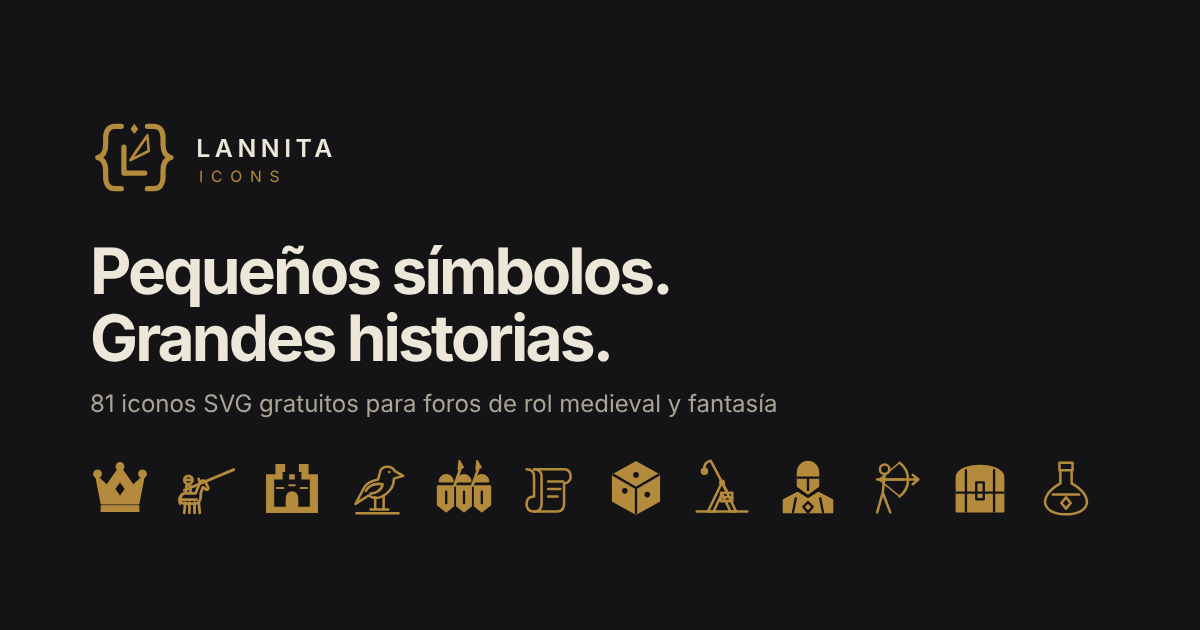
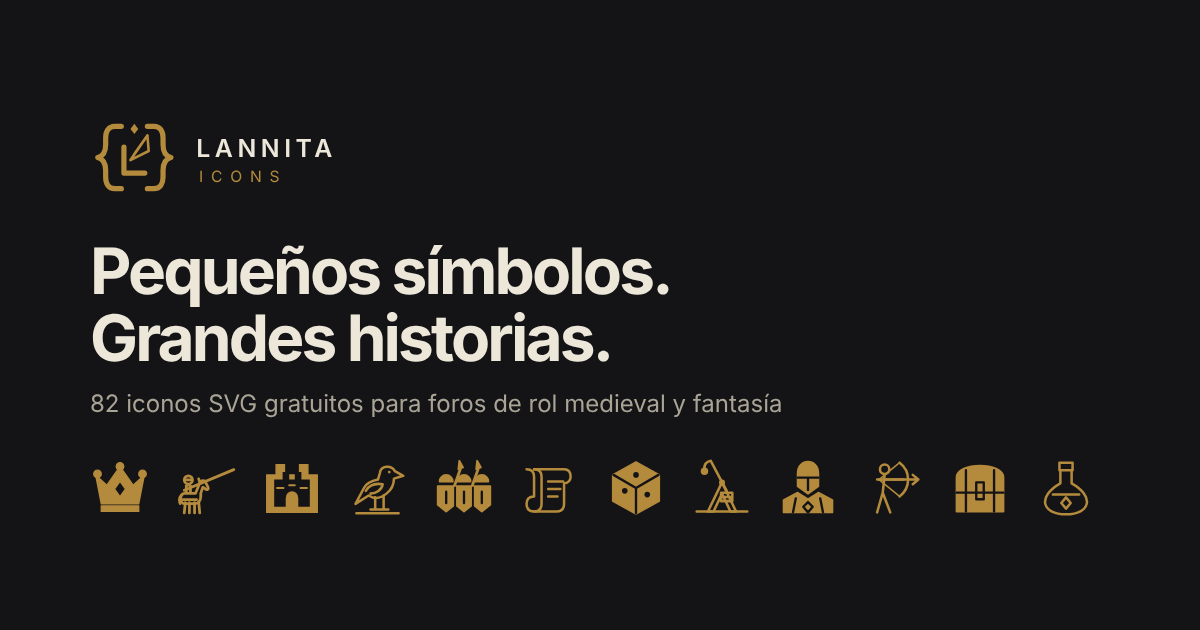
Añadir icono de liderazgo (leadership) a Atributos de personaje
Claude-Session: https://claude.ai/code/session_0167zFDEFm587ytXc5Y8Pb1f

Changed region(s): [[0.0925, 0.6032, 0.6475, 0.6635]]

diff --git a/index.html b/index.html
@@ -1,16 +1,16 @@
 <!doctype html>
 <html lang="es"><head><meta charset="utf-8"><meta name="viewport" content="width=device-width, initial-scale=1">
-<title>Lannita Icons · Colección gratuita</title><meta name="description" content="Iconos SVG para rol medieval y fantasía. 81 símbolos editables en estilos outline y heráldico, listos para Foroactivo."><meta name="theme-color" content="#141416">
-<meta property="og:type" content="website"><meta property="og:site_name" content="Lannita Icons"><meta property="og:title" content="Lannita Icons · Colección gratuita"><meta property="og:description" content="Iconos SVG para rol medieval y fantasía. 81 símbolos editables en estilos outline y heráldico, listos para Foroactivo."><meta property="og:image" content="https://kdavis13.github.io/lannita-icons/assets/brand/og-image.png"><meta property="og:image:width" content="1200"><meta property="og:image:height" content="630"><meta name="twitter:card" content="summary_large_image">
+<title>Lannita Icons · Colección gratuita</title><meta name="description" content="Iconos SVG para rol medieval y fantasía. 82 símbolos editables en estilos outline y heráldico, listos para Foroactivo."><meta name="theme-color" content="#141416">
+<meta property="og:type" content="website"><meta property="og:site_name" content="Lannita Icons"><meta property="og:title" content="Lannita Icons · Colección gratuita"><meta property="og:description" content="Iconos SVG para rol medieval y fantasía. 82 símbolos editables en estilos outline y heráldico, listos para Foroactivo."><meta property="og:image" content="https://kdavis13.github.io/lannita-icons/assets/brand/og-image.png"><meta property="og:image:width" content="1200"><meta property="og:image:height" content="630"><meta name="twitter:card" content="summary_large_image">
 <link rel="icon" type="image/svg+xml" href="./assets/brand/favicon.svg"><link rel="stylesheet" href="./css/gallery.css"><script src="./gallery.js" defer></script></head>
 <body><a class="skip" href="#galeria">Ir a la galería</a>
 <header class="site-header"><p class="eyebrow">LANNITA CODES / RECURSOS GRATUITOS</p><h1 class="brand"><img src="./assets/brand/lannita-logo.svg" alt="Lannita Icons" width="460" height="140"></h1>
 <div class="hero"><h2 class="hero-title">Pequeños símbolos.<br>Grandes historias.</h2><p>Iconos SVG para tus comunidades de rol medieval y fantasía. Editables, personalizables y listos para dar vida a tu foro.</p>
-<p class="hero-links"><a class="button" href="./guia.html">Cómo usarlos en tu foro</a><a href="./comparison.html">Ver tamaños</a></p><p class="credit-note">Gratis para cualquier foro, con <a href="./guia.html#mencion">mención obligatoria a Lannita Codes</a>.</p><ul class="collection-meta"><li>81 ICONOS</li><li>2 ESTILOS</li><li>7 CATEGORÍAS</li><li>GRATIS Y OPEN SOURCE</li></ul></div></header>
+<p class="hero-links"><a class="button" href="./guia.html">Cómo usarlos en tu foro</a><a href="./comparison.html">Ver tamaños</a></p><p class="credit-note">Gratis para cualquier foro, con <a href="./guia.html#mencion">mención obligatoria a Lannita Codes</a>.</p><ul class="collection-meta"><li>82 ICONOS</li><li>2 ESTILOS</li><li>7 CATEGORÍAS</li><li>GRATIS Y OPEN SOURCE</li></ul></div></header>
 <div class="toolbar"><div class="controls"><label class="search">Buscar iconos<input id="search" type="search" placeholder="Corona, justa, key…" autocomplete="off"></label>
 <label class="color">Color<input id="color" type="color" value="#b48a3c"></label></div>
-<div class="chips" role="group" aria-label="Filtrar por categoría"><button type="button" class="chip" data-category="" aria-pressed="true">Todas <span>81</span></button><button type="button" class="chip" data-category="Nobleza y política" aria-pressed="false">Nobleza y política <span>7</span></button><button type="button" class="chip" data-category="Guerra y combate" aria-pressed="false">Guerra y combate <span>25</span></button><button type="button" class="chip" data-category="Mensajería y narrativa" aria-pressed="false">Mensajería y narrativa <span>9</span></button><button type="button" class="chip" data-category="Economía y territorios" aria-pressed="false">Economía y territorios <span>9</span></button><button type="button" class="chip" data-category="Personajes y sistemas de rol" aria-pressed="false">Personajes y sistemas de rol <span>7</span></button><button type="button" class="chip" data-category="Religión y fe" aria-pressed="false">Religión y fe <span>12</span></button><button type="button" class="chip" data-category="Atributos de personaje" aria-pressed="false">Atributos de personaje <span>12</span></button></div>
-<p id="count" role="status">81 iconos · 162 variantes</p></div>
+<div class="chips" role="group" aria-label="Filtrar por categoría"><button type="button" class="chip" data-category="" aria-pressed="true">Todas <span>82</span></button><button type="button" class="chip" data-category="Nobleza y política" aria-pressed="false">Nobleza y política <span>7</span></button><button type="button" class="chip" data-category="Guerra y combate" aria-pressed="false">Guerra y combate <span>25</span></button><button type="button" class="chip" data-category="Mensajería y narrativa" aria-pressed="false">Mensajería y narrativa <span>9</span></button><button type="button" class="chip" data-category="Economía y territorios" aria-pressed="false">Economía y territorios <span>9</span></button><button type="button" class="chip" data-category="Personajes y sistemas de rol" aria-pressed="false">Personajes y sistemas de rol <span>7</span></button><button type="button" class="chip" data-category="Religión y fe" aria-pressed="false">Religión y fe <span>12</span></button><button type="button" class="chip" data-category="Atributos de personaje" aria-pressed="false">Atributos de personaje <span>13</span></button></div>
+<p id="count" role="status">82 iconos · 164 variantes</p></div>
 <main id="galeria"><section class="category" data-category="Nobleza y política"><h2>Nobleza y política <span>7</span></h2><div class="grid"><article id="crown" data-search="crown corona nobleza y política" data-category="Nobleza y política"><div class="card-head"><h3>Corona</h3><a class="name" href="#crown"><code>crown</code></a></div><div class="pair"><figure class="variant"><svg aria-hidden="true" focusable="false" xmlns="http://www.w3.org/2000/svg" width="64" height="64" viewBox="0 0 64 64" fill="none" stroke="currentColor" stroke-width="2.7" stroke-linecap="round" stroke-linejoin="round">
 <!-- Lannita Icons · Iconos de Lannita Codes (https://lannitacodes.tumblr.com/) · CC BY 4.0, mención obligatoria -->
 <path d="M8 19 18 29 32 13 46 29 56 19 51 48H13Z" /><path d="M15 54h34" /><circle cx="8" cy="18" r="3" /><circle cx="32" cy="12" r="3" /><circle cx="56" cy="18" r="3" />
@@ -425,7 +425,7 @@
 </svg><figcaption>Outline</figcaption><div class="actions"><button type="button" data-name="moon-cult" data-style="outline" aria-label="Copiar HTML de Culto lunar, outline">Copiar</button><button type="button" data-class="li li-moon-cult" aria-label="Copiar clase CSS de Culto lunar, outline">Clase</button><a href="./icons/outline/moon-cult.svg" download="lannita-moon-cult-outline.svg" aria-label="Descargar SVG de Culto lunar, outline">SVG</a></div></figure><figure class="variant"><svg aria-hidden="true" focusable="false" xmlns="http://www.w3.org/2000/svg" width="64" height="64" viewBox="0 0 64 64">
 <!-- Lannita Icons · Iconos de Lannita Codes (https://lannitacodes.tumblr.com/) · CC BY 4.0, mención obligatoria -->
 <defs><mask id="li-moon-cult-heraldic-cut" maskUnits="userSpaceOnUse" x="-64" y="-64" width="192" height="192" style="mask-type:luminance"><rect x="-64" y="-64" width="192" height="192" fill="white"/><g fill="none" stroke="black" stroke-linecap="round" stroke-linejoin="round"><path d="M14 32c0-6 2-11 6-15" stroke-width="2.5"/></g></mask></defs><g stroke="currentColor" stroke-linecap="round" stroke-linejoin="round"><path d="M36 6A26 26 0 1 0 36 58A30 30 0 0 1 36 6Z" fill="currentColor" stroke-width="2" mask="url(#li-moon-cult-heraldic-cut)"/><path d="M46.0 12.0L47.7 16.3L52.0 18.0L47.7 19.7L46.0 24.0L44.3 19.7L40.0 18.0L44.3 16.3Z M53.0 29.5L54.3 32.7L57.5 34.0L54.3 35.3L53.0 38.5L51.7 35.3L48.5 34.0L51.7 32.7Z M44.0 42.0L45.4 45.6L49.0 47.0L45.4 48.4L44.0 52.0L42.6 48.4L39.0 47.0L42.6 45.6Z" fill="currentColor" stroke-width="1.6"/></g>
-</svg><figcaption>Heráldico</figcaption><div class="actions"><button type="button" data-name="moon-cult" data-style="heraldic" aria-label="Copiar HTML de Culto lunar, heráldico">Copiar</button><button type="button" data-class="li li-heraldic li-moon-cult" aria-label="Copiar clase CSS de Culto lunar, heráldico">Clase</button><a href="./icons/heraldic/moon-cult.svg" download="lannita-moon-cult-heraldic.svg" aria-label="Descargar SVG de Culto lunar, heráldico">SVG</a></div></figure></div></article></div></section><section class="category" data-category="Atributos de personaje"><h2>Atributos de personaje <span>12</span></h2><div class="grid"><article id="strength" data-search="strength fuerza atributos de personaje" data-category="Atributos de personaje"><div class="card-head"><h3>Fuerza</h3><span class="badge">Nuevo</span><a class="name" href="#strength"><code>strength</code></a></div><div class="pair"><figure class="variant"><svg aria-hidden="true" focusable="false" xmlns="http://www.w3.org/2000/svg" width="64" height="64" viewBox="0 0 64 64">
+</svg><figcaption>Heráldico</figcaption><div class="actions"><button type="button" data-name="moon-cult" data-style="heraldic" aria-label="Copiar HTML de Culto lunar, heráldico">Copiar</button><button type="button" data-class="li li-heraldic li-moon-cult" aria-label="Copiar clase CSS de Culto lunar, heráldico">Clase</button><a href="./icons/heraldic/moon-cult.svg" download="lannita-moon-cult-heraldic.svg" aria-label="Descargar SVG de Culto lunar, heráldico">SVG</a></div></figure></div></article></div></section><section class="category" data-category="Atributos de personaje"><h2>Atributos de personaje <span>13</span></h2><div class="grid"><article id="strength" data-search="strength fuerza atributos de personaje" data-category="Atributos de personaje"><div class="card-head"><h3>Fuerza</h3><span class="badge">Nuevo</span><a class="name" href="#strength"><code>strength</code></a></div><div class="pair"><figure class="variant"><svg aria-hidden="true" focusable="false" xmlns="http://www.w3.org/2000/svg" width="64" height="64" viewBox="0 0 64 64">
 <!-- Lannita Icons · Iconos de Lannita Codes (https://lannitacodes.tumblr.com/) · CC BY 4.0, mención obligatoria -->
 <g fill="none" stroke="currentColor" stroke-width="2.7" stroke-linecap="round" stroke-linejoin="round"><path d="M13 21a4 4 0 0 1 4-4h30a4 4 0 0 1 4 4v19c0 8-6 13-13 14H26c-7-1-13-6-13-14Z M22 54h20v7H22Z M22.5 17v10M32 17v10M41.5 17v10 M13 33h18a4.5 4.5 0 0 1 0 9H19 M22 57h20"/><path d="M6 12l4 3M58 12l-4 3M32 4v5" stroke-width="1.6"/></g>
 </svg><figcaption>Outline</figcaption><div class="actions"><button type="button" data-name="strength" data-style="outline" aria-label="Copiar HTML de Fuerza, outline">Copiar</button><button type="button" data-class="li li-strength" aria-label="Copiar clase CSS de Fuerza, outline">Clase</button><a href="./icons/outline/strength.svg" download="lannita-strength-outline.svg" aria-label="Descargar SVG de Fuerza, outline">SVG</a></div></figure><figure class="variant"><svg aria-hidden="true" focusable="false" xmlns="http://www.w3.org/2000/svg" width="64" height="64" viewBox="0 0 64 64">
@@ -455,7 +455,13 @@
 </svg><figcaption>Outline</figcaption><div class="actions"><button type="button" data-name="charisma" data-style="outline" aria-label="Copiar HTML de Carisma, outline">Copiar</button><button type="button" data-class="li li-charisma" aria-label="Copiar clase CSS de Carisma, outline">Clase</button><a href="./icons/outline/charisma.svg" download="lannita-charisma-outline.svg" aria-label="Descargar SVG de Carisma, outline">SVG</a></div></figure><figure class="variant"><svg aria-hidden="true" focusable="false" xmlns="http://www.w3.org/2000/svg" width="64" height="64" viewBox="0 0 64 64">
 <!-- Lannita Icons · Iconos de Lannita Codes (https://lannitacodes.tumblr.com/) · CC BY 4.0, mención obligatoria -->
 <defs><mask id="li-charisma-heraldic-cut" maskUnits="userSpaceOnUse" x="-64" y="-64" width="192" height="192" style="mask-type:luminance"><rect x="-64" y="-64" width="192" height="192" fill="white"/><g fill="none" stroke="black" stroke-linecap="round" stroke-linejoin="round"><path d="M27.5 40a4.5 4.5 0 1 0 9.0 0a4.5 4.5 0 1 0 -9.0 0 M26 51h12" stroke-width="2.5"/></g></mask></defs><g stroke="currentColor" stroke-linecap="round" stroke-linejoin="round"><g transform="matrix(.866 -.5 .5 .866 -13 19)"><path d="M32 24c10 0 17 9 17 19 0 9-7 16-17 16s-17-7-17-16c0-10 7-19 17-19Z M29 9h6v17h-6Z M29 9l-3-6h7l2 6Z" fill="currentColor" stroke-width="2" mask="url(#li-charisma-heraldic-cut)"/><path d="M30.5 9v42M33.5 9v42" fill="none" stroke-width="1.8"/></g></g>
-</svg><figcaption>Heráldico</figcaption><div class="actions"><button type="button" data-name="charisma" data-style="heraldic" aria-label="Copiar HTML de Carisma, heráldico">Copiar</button><button type="button" data-class="li li-heraldic li-charisma" aria-label="Copiar clase CSS de Carisma, heráldico">Clase</button><a href="./icons/heraldic/charisma.svg" download="lannita-charisma-heraldic.svg" aria-label="Descargar SVG de Carisma, heráldico">SVG</a></div></figure></div></article><article id="endurance" data-search="endurance resistencia atributos de personaje" data-category="Atributos de personaje"><div class="card-head"><h3>Resistencia</h3><span class="badge">Nuevo</span><a class="name" href="#endurance"><code>endurance</code></a></div><div class="pair"><figure class="variant"><svg aria-hidden="true" focusable="false" xmlns="http://www.w3.org/2000/svg" width="64" height="64" viewBox="0 0 64 64">
+</svg><figcaption>Heráldico</figcaption><div class="actions"><button type="button" data-name="charisma" data-style="heraldic" aria-label="Copiar HTML de Carisma, heráldico">Copiar</button><button type="button" data-class="li li-heraldic li-charisma" aria-label="Copiar clase CSS de Carisma, heráldico">Clase</button><a href="./icons/heraldic/charisma.svg" download="lannita-charisma-heraldic.svg" aria-label="Descargar SVG de Carisma, heráldico">SVG</a></div></figure></div></article><article id="leadership" data-search="leadership liderazgo atributos de personaje" data-category="Atributos de personaje"><div class="card-head"><h3>Liderazgo</h3><span class="badge">Nuevo</span><a class="name" href="#leadership"><code>leadership</code></a></div><div class="pair"><figure class="variant"><svg aria-hidden="true" focusable="false" xmlns="http://www.w3.org/2000/svg" width="64" height="64" viewBox="0 0 64 64">
+<!-- Lannita Icons · Iconos de Lannita Codes (https://lannitacodes.tumblr.com/) · CC BY 4.0, mención obligatoria -->
+<g fill="none" stroke="currentColor" stroke-width="2.7" stroke-linecap="round" stroke-linejoin="round"><path d="M25 31a7 7 0 1 0 14 0a7 7 0 1 0 -14 0 M17 59c0-10 6-17 15-17s15 7 15 17Z M7.5 22a4.5 4.5 0 1 0 9.0 0a4.5 4.5 0 1 0 -9.0 0 M3 38c0-6 4-10 9-10s9 4 9 10Z M47.5 22a4.5 4.5 0 1 0 9.0 0a4.5 4.5 0 1 0 -9.0 0 M43 38c0-6 4-10 9-10s9 4 9 10Z M25 45l7 6 7-6"/><path d="M24.5 22l1.5-8 4 4 2-6 2 6 4-4 1.5 8Z" fill="currentColor" stroke-width="1.4"/></g>
+</svg><figcaption>Outline</figcaption><div class="actions"><button type="button" data-name="leadership" data-style="outline" aria-label="Copiar HTML de Liderazgo, outline">Copiar</button><button type="button" data-class="li li-leadership" aria-label="Copiar clase CSS de Liderazgo, outline">Clase</button><a href="./icons/outline/leadership.svg" download="lannita-leadership-outline.svg" aria-label="Descargar SVG de Liderazgo, outline">SVG</a></div></figure><figure class="variant"><svg aria-hidden="true" focusable="false" xmlns="http://www.w3.org/2000/svg" width="64" height="64" viewBox="0 0 64 64">
+<!-- Lannita Icons · Iconos de Lannita Codes (https://lannitacodes.tumblr.com/) · CC BY 4.0, mención obligatoria -->
+<defs><mask id="li-leadership-heraldic-cut" maskUnits="userSpaceOnUse" x="-64" y="-64" width="192" height="192" style="mask-type:luminance"><rect x="-64" y="-64" width="192" height="192" fill="white"/><g fill="none" stroke="black" stroke-linecap="round" stroke-linejoin="round"><path d="M25 45l7 6 7-6" stroke-width="2.5"/></g></mask></defs><g stroke="currentColor" stroke-linecap="round" stroke-linejoin="round"><path d="M25 31a7 7 0 1 0 14 0a7 7 0 1 0 -14 0 M17 59c0-10 6-17 15-17s15 7 15 17Z M7.5 22a4.5 4.5 0 1 0 9.0 0a4.5 4.5 0 1 0 -9.0 0 M3 38c0-6 4-10 9-10s9 4 9 10Z M47.5 22a4.5 4.5 0 1 0 9.0 0a4.5 4.5 0 1 0 -9.0 0 M43 38c0-6 4-10 9-10s9 4 9 10Z" fill="currentColor" stroke-width="2" mask="url(#li-leadership-heraldic-cut)"/><path d="M24.5 22l1.5-8 4 4 2-6 2 6 4-4 1.5 8Z" fill="currentColor" stroke-width="1.6"/></g>
+</svg><figcaption>Heráldico</figcaption><div class="actions"><button type="button" data-name="leadership" data-style="heraldic" aria-label="Copiar HTML de Liderazgo, heráldico">Copiar</button><button type="button" data-class="li li-heraldic li-leadership" aria-label="Copiar clase CSS de Liderazgo, heráldico">Clase</button><a href="./icons/heraldic/leadership.svg" download="lannita-leadership-heraldic.svg" aria-label="Descargar SVG de Liderazgo, heráldico">SVG</a></div></figure></div></article><article id="endurance" data-search="endurance resistencia atributos de personaje" data-category="Atributos de personaje"><div class="card-head"><h3>Resistencia</h3><span class="badge">Nuevo</span><a class="name" href="#endurance"><code>endurance</code></a></div><div class="pair"><figure class="variant"><svg aria-hidden="true" focusable="false" xmlns="http://www.w3.org/2000/svg" width="64" height="64" viewBox="0 0 64 64">
 <!-- Lannita Icons · Iconos de Lannita Codes (https://lannitacodes.tumblr.com/) · CC BY 4.0, mención obligatoria -->
 <g fill="none" stroke="currentColor" stroke-width="2.7" stroke-linecap="round" stroke-linejoin="round"><path d="M32 5c8 5 15 7 22 8v18c0 13-9 21-22 27-13-6-22-14-22-27V13c7-1 14-3 22-8Z M32 45c-9-6-13-11-13-16 0-4 3-7 6.5-7 3 0 5 2 6.5 4.5 1.5-2.5 3.5-4.5 6.5-4.5 3.5 0 6.5 3 6.5 7 0 5-4 10-13 16Z"/></g>
 </svg><figcaption>Outline</figcaption><div class="actions"><button type="button" data-name="endurance" data-style="outline" aria-label="Copiar HTML de Resistencia, outline">Copiar</button><button type="button" data-class="li li-endurance" aria-label="Copiar clase CSS de Resistencia, outline">Clase</button><a href="./icons/outline/endurance.svg" download="lannita-endurance-outline.svg" aria-label="Descargar SVG de Resistencia, outline">SVG</a></div></figure><figure class="variant"><svg aria-hidden="true" focusable="false" xmlns="http://www.w3.org/2000/svg" width="64" height="64" viewBox="0 0 64 64">

diff --git a/comparison.html b/comparison.html
@@ -1,10 +1,10 @@
 <!doctype html>
 <html lang="es"><head><meta charset="utf-8"><meta name="viewport" content="width=device-width, initial-scale=1">
-<title>Lannita Icons · Comparativa de tamaños</title><meta name="description" content="Los 162 SVG de Lannita Icons a 16, 24, 32 y 64 píxeles."><meta name="theme-color" content="#141416">
-<meta property="og:type" content="website"><meta property="og:site_name" content="Lannita Icons"><meta property="og:title" content="Lannita Icons · Comparativa de tamaños"><meta property="og:description" content="Los 162 SVG de Lannita Icons a 16, 24, 32 y 64 píxeles."><meta property="og:image" content="https://kdavis13.github.io/lannita-icons/assets/brand/og-image.png"><meta property="og:image:width" content="1200"><meta property="og:image:height" content="630"><meta name="twitter:card" content="summary_large_image">
+<title>Lannita Icons · Comparativa de tamaños</title><meta name="description" content="Los 164 SVG de Lannita Icons a 16, 24, 32 y 64 píxeles."><meta name="theme-color" content="#141416">
+<meta property="og:type" content="website"><meta property="og:site_name" content="Lannita Icons"><meta property="og:title" content="Lannita Icons · Comparativa de tamaños"><meta property="og:description" content="Los 164 SVG de Lannita Icons a 16, 24, 32 y 64 píxeles."><meta property="og:image" content="https://kdavis13.github.io/lannita-icons/assets/brand/og-image.png"><meta property="og:image:width" content="1200"><meta property="og:image:height" content="630"><meta name="twitter:card" content="summary_large_image">
 <link rel="icon" type="image/svg+xml" href="./assets/brand/favicon.svg"><link rel="stylesheet" href="./css/gallery.css"></head>
 <body class="compare"><header class="page-header"><a class="brand-link" href="./index.html"><img src="./assets/brand/lannita-logo.svg" alt="Lannita Icons" width="460" height="140"></a><a class="back" href="./index.html">← Volver a la galería</a></header>
-<div class="intro"><h1>81 símbolos, dos estilos.</h1><p>Comparativa de los 162 SVG a 16, 24, 32 y 64 píxeles. Los detalles ornamentales se aprecian mejor a partir de 32 px.</p></div>
+<div class="intro"><h1>82 símbolos, dos estilos.</h1><p>Comparativa de los 164 SVG a 16, 24, 32 y 64 píxeles. Los detalles ornamentales se aprecian mejor a partir de 32 px.</p></div>
 <main><section class="category"><h2>Nobleza y política <span>7</span></h2><div class="compare-grid"><article id="crown"><div class="card-head"><h3>Corona</h3><code>crown</code></div><div class="samples" aria-label="Outline"><span class="style-name">Outline</span><div class="sample"><svg xmlns="http://www.w3.org/2000/svg" width="16" height="16" aria-hidden="true" viewBox="0 0 64 64" fill="none" stroke="currentColor" stroke-width="2.7" stroke-linecap="round" stroke-linejoin="round">
 <!-- Lannita Icons · Iconos de Lannita Codes (https://lannitacodes.tumblr.com/) · CC BY 4.0, mención obligatoria -->
 <path d="M8 19 18 29 32 13 46 29 56 19 51 48H13Z" /><path d="M15 54h34" /><circle cx="8" cy="18" r="3" /><circle cx="32" cy="12" r="3" /><circle cx="56" cy="18" r="3" />
@@ -1661,7 +1661,7 @@
 </svg><small>32</small></div><div class="sample"><svg xmlns="http://www.w3.org/2000/svg" width="64" height="64" aria-hidden="true" viewBox="0 0 64 64">
 <!-- Lannita Icons · Iconos de Lannita Codes (https://lannitacodes.tumblr.com/) · CC BY 4.0, mención obligatoria -->
 <defs><mask id="compare-64-li-moon-cult-heraldic-cut" maskUnits="userSpaceOnUse" x="-64" y="-64" width="192" height="192" style="mask-type:luminance"><rect x="-64" y="-64" width="192" height="192" fill="white"/><g fill="none" stroke="black" stroke-linecap="round" stroke-linejoin="round"><path d="M14 32c0-6 2-11 6-15" stroke-width="2.5"/></g></mask></defs><g stroke="currentColor" stroke-linecap="round" stroke-linejoin="round"><path d="M36 6A26 26 0 1 0 36 58A30 30 0 0 1 36 6Z" fill="currentColor" stroke-width="2" mask="url(#compare-64-li-moon-cult-heraldic-cut)"/><path d="M46.0 12.0L47.7 16.3L52.0 18.0L47.7 19.7L46.0 24.0L44.3 19.7L40.0 18.0L44.3 16.3Z M53.0 29.5L54.3 32.7L57.5 34.0L54.3 35.3L53.0 38.5L51.7 35.3L48.5 34.0L51.7 32.7Z M44.0 42.0L45.4 45.6L49.0 47.0L45.4 48.4L44.0 52.0L42.6 48.4L39.0 47.0L42.6 45.6Z" fill="currentColor" stroke-width="1.6"/></g>
-</svg><small>64</small></div></div></article></div></section><section class="category"><h2>Atributos de personaje <span>12</span></h2><div class="compare-grid"><article id="strength"><div class="card-head"><h3>Fuerza</h3><code>strength</code></div><div class="samples" aria-label="Outline"><span class="style-name">Outline</span><div class="sample"><svg xmlns="http://www.w3.org/2000/svg" width="16" height="16" aria-hidden="true" viewBox="0 0 64 64">
+</svg><small>64</small></div></div></article></div></section><section class="category"><h2>Atributos de personaje <span>13</span></h2><div class="compare-grid"><article id="strength"><div class="card-head"><h3>Fuerza</h3><code>strength</code></div><div class="samples" aria-label="Outline"><span class="style-name">Outline</span><div class="sample"><svg xmlns="http://www.w3.org/2000/svg" width="16" height="16" aria-hidden="true" viewBox="0 0 64 64">
 <!-- Lannita Icons · Iconos de Lannita Codes (https://lannitacodes.tumblr.com/) · CC BY 4.0, mención obligatoria -->
 <g fill="none" stroke="currentColor" stroke-width="2.7" stroke-linecap="round" stroke-linejoin="round"><path d="M13 21a4 4 0 0 1 4-4h30a4 4 0 0 1 4 4v19c0 8-6 13-13 14H26c-7-1-13-6-13-14Z M22 54h20v7H22Z M22.5 17v10M32 17v10M41.5 17v10 M13 33h18a4.5 4.5 0 0 1 0 9H19 M22 57h20"/><path d="M6 12l4 3M58 12l-4 3M32 4v5" stroke-width="1.6"/></g>
 </svg><small>16</small></div><div class="sample"><svg xmlns="http://www.w3.org/2000/svg" width="24" height="24" aria-hidden="true" viewBox="0 0 64 64">
@@ -1781,6 +1781,30 @@
 </svg><small>32</small></div><div class="sample"><svg xmlns="http://www.w3.org/2000/svg" width="64" height="64" aria-hidden="true" viewBox="0 0 64 64">
 <!-- Lannita Icons · Iconos de Lannita Codes (https://lannitacodes.tumblr.com/) · CC BY 4.0, mención obligatoria -->
 <defs><mask id="compare-64-li-charisma-heraldic-cut" maskUnits="userSpaceOnUse" x="-64" y="-64" width="192" height="192" style="mask-type:luminance"><rect x="-64" y="-64" width="192" height="192" fill="white"/><g fill="none" stroke="black" stroke-linecap="round" stroke-linejoin="round"><path d="M27.5 40a4.5 4.5 0 1 0 9.0 0a4.5 4.5 0 1 0 -9.0 0 M26 51h12" stroke-width="2.5"/></g></mask></defs><g stroke="currentColor" stroke-linecap="round" stroke-linejoin="round"><g transform="matrix(.866 -.5 .5 .866 -13 19)"><path d="M32 24c10 0 17 9 17 19 0 9-7 16-17 16s-17-7-17-16c0-10 7-19 17-19Z M29 9h6v17h-6Z M29 9l-3-6h7l2 6Z" fill="currentColor" stroke-width="2" mask="url(#compare-64-li-charisma-heraldic-cut)"/><path d="M30.5 9v42M33.5 9v42" fill="none" stroke-width="1.8"/></g></g>
+</svg><small>64</small></div></div></article><article id="leadership"><div class="card-head"><h3>Liderazgo</h3><code>leadership</code></div><div class="samples" aria-label="Outline"><span class="style-name">Outline</span><div class="sample"><svg xmlns="http://www.w3.org/2000/svg" width="16" height="16" aria-hidden="true" viewBox="0 0 64 64">
+<!-- Lannita Icons · Iconos de Lannita Codes (https://lannitacodes.tumblr.com/) · CC BY 4.0, mención obligatoria -->
+<g fill="none" stroke="currentColor" stroke-width="2.7" stroke-linecap="round" stroke-linejoin="round"><path d="M25 31a7 7 0 1 0 14 0a7 7 0 1 0 -14 0 M17 59c0-10 6-17 15-17s15 7 15 17Z M7.5 22a4.5 4.5 0 1 0 9.0 0a4.5 4.5 0 1 0 -9.0 0 M3 38c0-6 4-10 9-10s9 4 9 10Z M47.5 22a4.5 4.5 0 1 0 9.0 0a4.5 4.5 0 1 0 -9.0 0 M43 38c0-6 4-10 9-10s9 4 9 10Z M25 45l7 6 7-6"/><path d="M24.5 22l1.5-8 4 4 2-6 2 6 4-4 1.5 8Z" fill="currentColor" stroke-width="1.4"/></g>
+</svg><small>16</small></div><div class="sample"><svg xmlns="http://www.w3.org/2000/svg" width="24" height="24" aria-hidden="true" viewBox="0 0 64 64">
+<!-- Lannita Icons · Iconos de Lannita Codes (https://lannitacodes.tumblr.com/) · CC BY 4.0, mención obligatoria -->
+<g fill="none" stroke="currentColor" stroke-width="2.7" stroke-linecap="round" stroke-linejoin="round"><path d="M25 31a7 7 0 1 0 14 0a7 7 0 1 0 -14 0 M17 59c0-10 6-17 15-17s15 7 15 17Z M7.5 22a4.5 4.5 0 1 0 9.0 0a4.5 4.5 0 1 0 -9.0 0 M3 38c0-6 4-10 9-10s9 4 9 10Z M47.5 22a4.5 4.5 0 1 0 9.0 0a4.5 4.5 0 1 0 -9.0 0 M43 38c0-6 4-10 9-10s9 4 9 10Z M25 45l7 6 7-6"/><path d="M24.5 22l1.5-8 4 4 2-6 2 6 4-4 1.5 8Z" fill="currentColor" stroke-width="1.4"/></g>
+</svg><small>24</small></div><div class="sample"><svg xmlns="http://www.w3.org/2000/svg" width="32" height="32" aria-hidden="true" viewBox="0 0 64 64">
+<!-- Lannita Icons · Iconos de Lannita Codes (https://lannitacodes.tumblr.com/) · CC BY 4.0, mención obligatoria -->
+<g fill="none" stroke="currentColor" stroke-width="2.7" stroke-linecap="round" stroke-linejoin="round"><path d="M25 31a7 7 0 1 0 14 0a7 7 0 1 0 -14 0 M17 59c0-10 6-17 15-17s15 7 15 17Z M7.5 22a4.5 4.5 0 1 0 9.0 0a4.5 4.5 0 1 0 -9.0 0 M3 38c0-6 4-10 9-10s9 4 9 10Z M47.5 22a4.5 4.5 0 1 0 9.0 0a4.5 4.5 0 1 0 -9.0 0 M43 38c0-6 4-10 9-10s9 4 9 10Z M25 45l7 6 7-6"/><path d="M24.5 22l1.5-8 4 4 2-6 2 6 4-4 1.5 8Z" fill="currentColor" stroke-width="1.4"/></g>
+</svg><small>32</small></div><div class="sample"><svg xmlns="http://www.w3.org/2000/svg" width="64" height="64" aria-hidden="true" viewBox="0 0 64 64">
+<!-- Lannita Icons · Iconos de Lannita Codes (https://lannitacodes.tumblr.com/) · CC BY 4.0, mención obligatoria -->
+<g fill="none" stroke="currentColor" stroke-width="2.7" stroke-linecap="round" stroke-linejoin="round"><path d="M25 31a7 7 0 1 0 14 0a7 7 0 1 0 -14 0 M17 59c0-10 6-17 15-17s15 7 15 17Z M7.5 22a4.5 4.5 0 1 0 9.0 0a4.5 4.5 0 1 0 -9.0 0 M3 38c0-6 4-10 9-10s9 4 9 10Z M47.5 22a4.5 4.5 0 1 0 9.0 0a4.5 4.5 0 1 0 -9.0 0 M43 38c0-6 4-10 9-10s9 4 9 10Z M25 45l7 6 7-6"/><path d="M24.5 22l1.5-8 4 4 2-6 2 6 4-4 1.5 8Z" fill="currentColor" stroke-width="1.4"/></g>
+</svg><small>64</small></div></div><div class="samples" aria-label="Heráldico"><span class="style-name">Heráldico</span><div class="sample"><svg xmlns="http://www.w3.org/2000/svg" width="16" height="16" aria-hidden="true" viewBox="0 0 64 64">
+<!-- Lannita Icons · Iconos de Lannita Codes (https://lannitacodes.tumblr.com/) · CC BY 4.0, mención obligatoria -->
+<defs><mask id="compare-16-li-leadership-heraldic-cut" maskUnits="userSpaceOnUse" x="-64" y="-64" width="192" height="192" style="mask-type:luminance"><rect x="-64" y="-64" width="192" height="192" fill="white"/><g fill="none" stroke="black" stroke-linecap="round" stroke-linejoin="round"><path d="M25 45l7 6 7-6" stroke-width="2.5"/></g></mask></defs><g stroke="currentColor" stroke-linecap="round" stroke-linejoin="round"><path d="M25 31a7 7 0 1 0 14 0a7 7 0 1 0 -14 0 M17 59c0-10 6-17 15-17s15 7 15 17Z M7.5 22a4.5 4.5 0 1 0 9.0 0a4.5 4.5 0 1 0 -9.0 0 M3 38c0-6 4-10 9-10s9 4 9 10Z M47.5 22a4.5 4.5 0 1 0 9.0 0a4.5 4.5 0 1 0 -9.0 0 M43 38c0-6 4-10 9-10s9 4 9 10Z" fill="currentColor" stroke-width="2" mask="url(#compare-16-li-leadership-heraldic-cut)"/><path d="M24.5 22l1.5-8 4 4 2-6 2 6 4-4 1.5 8Z" fill="currentColor" stroke-width="1.6"/></g>
+</svg><small>16</small></div><div class="sample"><svg xmlns="http://www.w3.org/2000/svg" width="24" height="24" aria-hidden="true" viewBox="0 0 64 64">
+<!-- Lannita Icons · Iconos de Lannita Codes (https://lannitacodes.tumblr.com/) · CC BY 4.0, mención obligatoria -->
+<defs><mask id="compare-24-li-leadership-heraldic-cut" maskUnits="userSpaceOnUse" x="-64" y="-64" width="192" height="192" style="mask-type:luminance"><rect x="-64" y="-64" width="192" height="192" fill="white"/><g fill="none" stroke="black" stroke-linecap="round" stroke-linejoin="round"><path d="M25 45l7 6 7-6" stroke-width="2.5"/></g></mask></defs><g stroke="currentColor" stroke-linecap="round" stroke-linejoin="round"><path d="M25 31a7 7 0 1 0 14 0a7 7 0 1 0 -14 0 M17 59c0-10 6-17 15-17s15 7 15 17Z M7.5 22a4.5 4.5 0 1 0 9.0 0a4.5 4.5 0 1 0 -9.0 0 M3 38c0-6 4-10 9-10s9 4 9 10Z M47.5 22a4.5 4.5 0 1 0 9.0 0a4.5 4.5 0 1 0 -9.0 0 M43 38c0-6 4-10 9-10s9 4 9 10Z" fill="currentColor" stroke-width="2" mask="url(#compare-24-li-leadership-heraldic-cut)"/><path d="M24.5 22l1.5-8 4 4 2-6 2 6 4-4 1.5 8Z" fill="currentColor" stroke-width="1.6"/></g>
+</svg><small>24</small></div><div class="sample"><svg xmlns="http://www.w3.org/2000/svg" width="32" height="32" aria-hidden="true" viewBox="0 0 64 64">
+<!-- Lannita Icons · Iconos de Lannita Codes (https://lannitacodes.tumblr.com/) · CC BY 4.0, mención obligatoria -->
+<defs><mask id="compare-32-li-leadership-heraldic-cut" maskUnits="userSpaceOnUse" x="-64" y="-64" width="192" height="192" style="mask-type:luminance"><rect x="-64" y="-64" width="192" height="192" fill="white"/><g fill="none" stroke="black" stroke-linecap="round" stroke-linejoin="round"><path d="M25 45l7 6 7-6" stroke-width="2.5"/></g></mask></defs><g stroke="currentColor" stroke-linecap="round" stroke-linejoin="round"><path d="M25 31a7 7 0 1 0 14 0a7 7 0 1 0 -14 0 M17 59c0-10 6-17 15-17s15 7 15 17Z M7.5 22a4.5 4.5 0 1 0 9.0 0a4.5 4.5 0 1 0 -9.0 0 M3 38c0-6 4-10 9-10s9 4 9 10Z M47.5 22a4.5 4.5 0 1 0 9.0 0a4.5 4.5 0 1 0 -9.0 0 M43 38c0-6 4-10 9-10s9 4 9 10Z" fill="currentColor" stroke-width="2" mask="url(#compare-32-li-leadership-heraldic-cut)"/><path d="M24.5 22l1.5-8 4 4 2-6 2 6 4-4 1.5 8Z" fill="currentColor" stroke-width="1.6"/></g>
+</svg><small>32</small></div><div class="sample"><svg xmlns="http://www.w3.org/2000/svg" width="64" height="64" aria-hidden="true" viewBox="0 0 64 64">
+<!-- Lannita Icons · Iconos de Lannita Codes (https://lannitacodes.tumblr.com/) · CC BY 4.0, mención obligatoria -->
+<defs><mask id="compare-64-li-leadership-heraldic-cut" maskUnits="userSpaceOnUse" x="-64" y="-64" width="192" height="192" style="mask-type:luminance"><rect x="-64" y="-64" width="192" height="192" fill="white"/><g fill="none" stroke="black" stroke-linecap="round" stroke-linejoin="round"><path d="M25 45l7 6 7-6" stroke-width="2.5"/></g></mask></defs><g stroke="currentColor" stroke-linecap="round" stroke-linejoin="round"><path d="M25 31a7 7 0 1 0 14 0a7 7 0 1 0 -14 0 M17 59c0-10 6-17 15-17s15 7 15 17Z M7.5 22a4.5 4.5 0 1 0 9.0 0a4.5 4.5 0 1 0 -9.0 0 M3 38c0-6 4-10 9-10s9 4 9 10Z M47.5 22a4.5 4.5 0 1 0 9.0 0a4.5 4.5 0 1 0 -9.0 0 M43 38c0-6 4-10 9-10s9 4 9 10Z" fill="currentColor" stroke-width="2" mask="url(#compare-64-li-leadership-heraldic-cut)"/><path d="M24.5 22l1.5-8 4 4 2-6 2 6 4-4 1.5 8Z" fill="currentColor" stroke-width="1.6"/></g>
 </svg><small>64</small></div></div></article><article id="endurance"><div class="card-head"><h3>Resistencia</h3><code>endurance</code></div><div class="samples" aria-label="Outline"><span class="style-name">Outline</span><div class="sample"><svg xmlns="http://www.w3.org/2000/svg" width="16" height="16" aria-hidden="true" viewBox="0 0 64 64">
 <!-- Lannita Icons · Iconos de Lannita Codes (https://lannitacodes.tumblr.com/) · CC BY 4.0, mención obligatoria -->
 <g fill="none" stroke="currentColor" stroke-width="2.7" stroke-linecap="round" stroke-linejoin="round"><path d="M32 5c8 5 15 7 22 8v18c0 13-9 21-22 27-13-6-22-14-22-27V13c7-1 14-3 22-8Z M32 45c-9-6-13-11-13-16 0-4 3-7 6.5-7 3 0 5 2 6.5 4.5 1.5-2.5 3.5-4.5 6.5-4.5 3.5 0 6.5 3 6.5 7 0 5-4 10-13 16Z"/></g>

diff --git a/css/lannita-icons.css b/css/lannita-icons.css
@@ -149,6 +149,8 @@
 .li-heraldic.li-wisdom { --li-icon:url("../icons/heraldic/wisdom.svg"); }
 .li-charisma { --li-icon:url("../icons/outline/charisma.svg"); }
 .li-heraldic.li-charisma { --li-icon:url("../icons/heraldic/charisma.svg"); }
+.li-leadership { --li-icon:url("../icons/outline/leadership.svg"); }
+.li-heraldic.li-leadership { --li-icon:url("../icons/heraldic/leadership.svg"); }
 .li-endurance { --li-icon:url("../icons/outline/endurance.svg"); }
 .li-heraldic.li-endurance { --li-icon:url("../icons/heraldic/endurance.svg"); }
 .li-perception { --li-icon:url("../icons/outline/perception.svg"); }

diff --git a/README.md b/README.md
@@ -144,5 +144,5 @@ pierden detalle por debajo de 24 px.
 
 - Religión y fe (12): chapel, altar, chalice, holy-book, candles, prayer, priest,
   censer, bell, reliquary, holy-sun, moon-cult.
-- Atributos de personaje (12): strength, agility, intellect, wisdom, charisma,
-  endurance, perception, stealth, luck, mana, experience, level-up.
+- Atributos de personaje (13): strength, agility, intellect, wisdom, charisma,
+  endurance, perception, stealth, luck, mana, experience, level-up, leadership.
